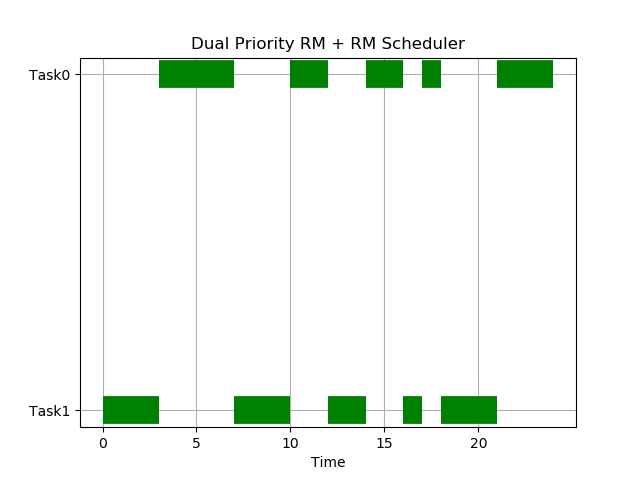
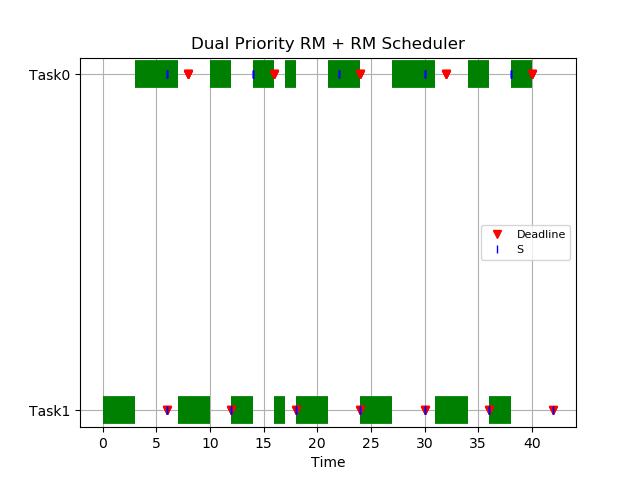
plotting deadline|s values

diff --git a/simulate_dual.py b/simulate_dual.py
@@ -5,20 +5,28 @@ import numpy as np
 
 class SimulateDual:
 
-    def __init__(self, tasks, stop_point):
+    def __init__(self, tasks, stop_point, graphing=False):
         self.tasks = tasks
         self.stop_point = stop_point
-        self.graphing = True
+        self.graphing = graphing
 
-    def plot_tasks(self,tasks_order, fx, tx):
+    def plot_tasks(self,tasks_order, fx, tx, task_deadline, task_s):
+        print(task_deadline)
+        print(tasks_order)
+        print(fx)
+        print(tx)
         #fig = plt.figure()
         colors = ['red', 'green', 'blue', 'orange', 'yellow']
         plt.hlines(tasks_order, fx, tx, linewidth=20, colors='green')
+        plt.plot(task_deadline, tasks_order, 'ro', marker='v', label="Deadline")
+        plt.plot(task_s, tasks_order, 'bo', marker='|', label="S")
+        plt.legend(loc='center right', prop={'size': 8})
         plt.title('Dual Priority RM + RM Scheduler')
         plt.grid(True)
         plt.xlabel("Time")
         plt.xticks(np.arange(min(fx), max(tx) + 1, 5.0))
         plt.savefig("scheduler_{}_tasks.png".format(len(self.tasks)))
+        plt.show()
 
     def order_tasks(self):
         self.tasks.sort(key=lambda x: x.period)
@@ -81,7 +89,11 @@ class SimulateDual:
 
 
     def simulate(self):
+        #arrays used for plotting
         tasks_order = []
+        task_deadline = []
+        task_s = []
+
         fx = []
         tx = []
         self.order_tasks()
@@ -103,10 +115,13 @@ class SimulateDual:
                 if job.start <= time:
                     queue_jobs.append(job)
             queue_jobs.sort(key=lambda x: x.priority_1)
-            #print(queue_jobs)
+            print("Printing queue", queue_jobs)
 
             if len(queue_jobs) > 0:
                 tasks_order.append("Task{}".format(queue_jobs[0].task_id))
+                #task_test_deadline.append(("Task{}".format(queue_jobs[0].task_id), queue_jobs[0].end))
+                task_deadline.append(queue_jobs[0].end)
+                task_s.append(queue_jobs[0].s)
                 fx.append(time)
                 tx.append(time+1)
                 if(last_task_id != -1 and last_job_id != -1 and (last_job_id != queue_jobs[0].get_job_id()

diff --git a/project.py b/project.py
@@ -24,8 +24,18 @@ class Main:
     @staticmethod
     def simulate(file, stop_time):
         tasks = TaskFileManager.read_file(file)
+        fdms = Fdms(tasks)
+        fdms.fdms()
         scheduler = SimulateDual(tasks, stop_time)
         result, t_id = scheduler.simulate()
+
+    @staticmethod
+    def simulate_graph(file,stop_time):
+        tasks = TaskFileManager.read_file(file)
+        fdms = Fdms(tasks)
+        fdms.fdms()
+        scheduler = SimulateDual(tasks, stop_time, graphing=True)
+        scheduler.simulate()
 
     @staticmethod
     def execute():
@@ -41,6 +51,8 @@ class Main:
                 Main.fdms(sys.argv[2])
             elif mode == 'simulation':
                 Main.simulate(sys.argv[2], int(sys.argv[3]))
+            elif mode == 'simulation_graph':
+                Main.simulate_graph(sys.argv[2], int(sys.argv[3]))
             else:
                 print("Unrecognized mode.")
         else:
